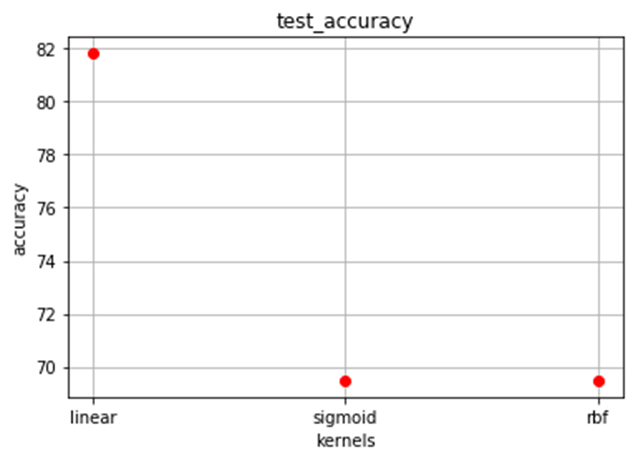
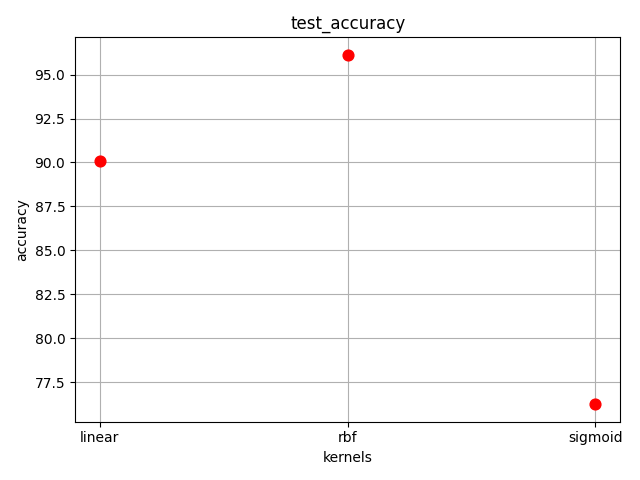
Add accuracy chart to README and clean up punctuation
Regenerates docs/images/test_accuracy.png with current kernel
accuracies and embeds it in the README, and replaces em dashes with
colons in the how-it-works list.

Changed region(s): [[0.0, 0.0304, 0.9905, 0.9739]]

diff --git a/README.md b/README.md
@@ -15,10 +15,10 @@ image.
 
 ## How it works
 
-1. **Dataset construction** ([`fire_detection/dataset.py`](src/fire_detection/dataset.py)) — every pixel of the training images is
+1. **Dataset construction** ([`fire_detection/dataset.py`](src/fire_detection/dataset.py)): every pixel of the training images is
    extracted as an `(R, G, B)` triple and labeled `1` (fire) or `2` (no fire),
    producing one row per pixel.
-2. **Training** ([`fire_detection/model.py`](src/fire_detection/model.py)) — an SVM classifier is fit on the labeled pixels.
+2. **Training** ([`fire_detection/model.py`](src/fire_detection/model.py)): an SVM classifier is fit on the labeled pixels.
    With the bundled sample images, the rbf kernel generalizes best:
 
    | Kernel  | Test accuracy |
@@ -27,7 +27,9 @@ image.
    | rbf     | 96.14% |
    | sigmoid | 76.24% |
 
-3. **Prediction & highlighting** ([`fire_detection/visualize.py`](src/fire_detection/visualize.py)) — the trained model labels every
+   ![Test accuracy by kernel](docs/images/test_accuracy.png)
+
+3. **Prediction & highlighting** ([`fire_detection/visualize.py`](src/fire_detection/visualize.py)): the trained model labels every
    pixel of a new image, and pixels confidently predicted as fire are
    recolored red in the output image.
 
